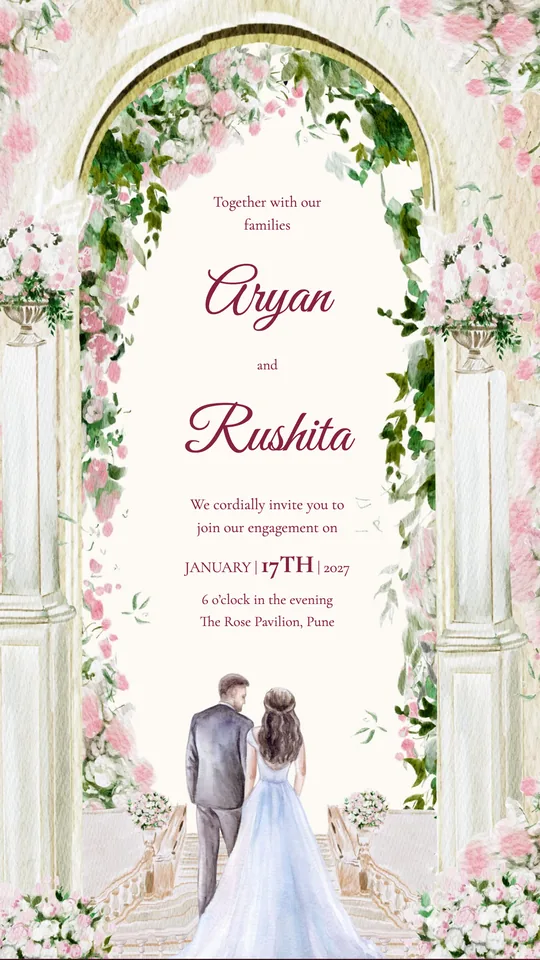
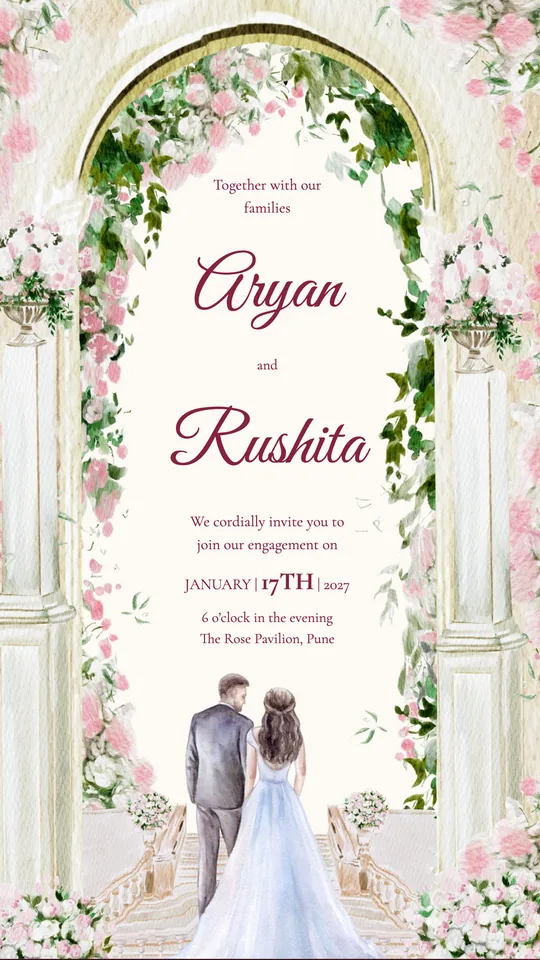
Apply second card review: clear the artwork, bigger names, renderer fixes
- Lantern Canopy: text bands raised so the date and venue clear the arch twigs in both shapes.
- Sage Script: print RSVP line lifted off the bottom leaves, smaller shared title so Tamil keeps its size, leftover ink from the old lettering painted out.
- Eucalyptus Ring: print band starts higher and the names are a little smaller, so print text no longer sits at the shrink floor.
- Meadow Vows and Rose Arch: larger names, closer to the originals.
- Card renderer: print pages refit only when their content changes, photo crops use the page's own index in print, and a story lead box is not reused in print.

Changed region(s): [[0.2963, 0.4062, 0.6815, 0.6875], [0.3556, 0.1875, 0.6519, 0.3438]]

diff --git a/src/card/designs-l.tsx b/src/card/designs-l.tsx
@@ -52,16 +52,16 @@ export const designs: Design[] = [
   },
   {
     ...look('eucalyptus-ring', '#f7f7f6', '#5e5631', '#5e5631', { title: cormorant, heading: cinzel, body: cormorant, names: '"Pinyon Script", cursive' }),
-    pages: [{ ...page('eucalyptus-ring', 352, 245, [16, 16], [322, 231]), lead: { box: [174, 160, 212, 76] }, print: { src: `${BASE}templates/eucalyptus-ring/1-print.jpg`, top: 322, bottom: 231, lead: { box: [174, 149, 212, 76] } } }],
+    pages: [{ ...page('eucalyptus-ring', 352, 245, [16, 16], [300, 231]), lead: { box: [174, 160, 212, 76] }, print: { src: `${BASE}templates/eucalyptus-ring/1-print.jpg`, top: 300, bottom: 231, lead: { box: [174, 149, 212, 76] } } }],
   },
   {
     ...look('sage-script', '#fbfcf8', '#5f7258', '#5f7258', { title: '"Jost", sans-serif', heading: '"Jost", sans-serif', body: '"Jost", sans-serif', names: '"Great Vibes", cursive' }),
     ornaments: { heart: { src: `${BASE}templates/sage-script/heart.png`, w: 0.62 } },
-    pages: [page('sage-script', 200, 205, [10, 10], [192, 181])],
+    pages: [page('sage-script', 200, 205, [10, 10], [192, 200])],
   },
   {
     ...look('lantern-canopy', '#f1f3f1', '#3b3a18', '#3b3a18', { title: '"Marcellus", serif', heading: '"Marcellus", serif', body: cormorant, names: '"Marcellus", serif' }),
-    pages: [{ ...page('lantern-canopy', 108, 470, [14, 14], [104, 346]), print: { src: `${BASE}templates/lantern-canopy/1-print.jpg`, top: 104, bottom: 346, x: [21, 21] } }],
+    pages: [{ ...page('lantern-canopy', 108, 500, [14, 14], [100, 366]), print: { src: `${BASE}templates/lantern-canopy/1-print.jpg`, top: 100, bottom: 366, x: [21, 21] } }],
   },
 ]
 
@@ -82,7 +82,7 @@ export const templates: Template[] = [
         title: 'Engagement',
         sections: [
           b('***CELEBRATE WITH US AS***\n***WE EXCHANGE RINGS***', 0.68),
-          b('~Aryan &~\n~Rushita~', 2.8),
+          b('~Aryan &~\n~Rushita~', 3.4),
           b('***YOUR COMPANY IS REQUESTED***\n***AT OUR ENGAGEMENT***', 0.68),
           b('**20 | DECEMBER | 2026**', 1.05),
           b('At 4 o’clock in the afternoon\n***Sayaji Garden Lawns***\n14 Lake View Road, Vadodara', 0.85),
@@ -103,9 +103,9 @@ export const templates: Template[] = [
         title: 'Engagement',
         sections: [
           b('Together with our\nfamilies', 0.85),
-          b('~Aryan~', 3.4),
+          b('~Aryan~', 4),
           b('and', 0.8),
-          b('~Rushita~', 3.4),
+          b('~Rushita~', 4),
           b('We cordially invite you to\njoin our engagement on', 0.85),
           b('JANUARY | **17TH** | 2027', 0.85),
           b('6 o’clock in the evening\nThe Rose Pavilion, Pune', 0.8),
@@ -125,7 +125,7 @@ export const templates: Template[] = [
         title: 'Engagement',
         sections: [
           b('~Engagement Ceremony~', 1.6),
-          b('~Aryan~\n~& Rushita~', 3.6),
+          b('~Aryan~\n~& Rushita~', 3.2),
           b('**14 | FEBRUARY | 2027**', 1.3),
           b('At 11 o’clock in the morning\n***Shubh Banquets***\nMG Road, Ahmedabad', 1.15),
         ],
@@ -143,7 +143,7 @@ export const templates: Template[] = [
       {
         title: 'Engaged',
         sections: [
-          b('~Engaged~ [[heart]]', 6.4),
+          b('~Engaged~ [[heart]]', 5.2),
           b('JOIN US TO CELEBRATE THE\nENGAGEMENT OF', 0.95),
           b('~Aryan + Rushita~', 3.1),
           b('SATURDAY, MARCH 13, 2027 | 7 - 11 PM\nTHE GREEN HOUSE, 21 PARK STREET,\nKOLKATA 700016', 0.85),

diff --git a/src/card/Card.tsx b/src/card/Card.tsx
@@ -339,7 +339,7 @@ export function CardPage({ invite, page }: { invite: Invite; page: Page }) {
   const crop = art?.print && invite.format === 'print' ? 0 : (960 * k - h) / 2
   const safe = art ? { top: art.top * k - crop, bottom: art.bottom * k - crop, x: d.safe.story.x * k } : d.safe[invite.format]
   const side = art?.x ? { left: (art.x[0] * w) / 100, right: (art.x[1] * w) / 100 } : { left: safe.x, right: safe.x }
-  const fit = art?.photo && { ...PHOTO_FIT, ...invite.photos?.[base0.pages!.indexOf(art)] }
+  const fit = art?.photo && { ...PHOTO_FIT, ...invite.photos?.[base0.pages!.indexOf(own!)] }
   const photo = art?.photo && { src: fit!.src ?? art.photo.src, b: art.photo.box.map((v) => v * k), fade: art.photo.fade }
   const x = look(d, invite.lang)
   const base = w / 30
@@ -348,7 +348,9 @@ export function CardPage({ invite, page }: { invite: Invite; page: Page }) {
   // lead: the first section gets its own band (a title typed into a painted frame), fitted on its own.
   const leadBox = useRef<HTMLDivElement>(null)
   const leadInner = useRef<HTMLDivElement>(null)
-  const lead = art?.lead && page.kind !== 'cover' && page.sections.length > 1 ? art.lead : undefined
+  // In print, only the print art's own lead box applies: the story box is placed for the cropped 9:16 page.
+  const leadDef = art !== lang ? lang?.print?.lead : art?.lead
+  const lead = leadDef && page.kind !== 'cover' && page.sections.length > 1 ? leadDef : undefined
   const body = lead && page.kind !== 'cover' ? { ...page, sections: page.sections.slice(1) } : page
 
   // Shrink text until it fits the safe area, so long family lists never spill onto the artwork.
@@ -379,7 +381,7 @@ export function CardPage({ invite, page }: { invite: Invite; page: Page }) {
       el?.removeEventListener('load', fit, true)
     }
     // Only pages whose content or look changed re-fit; untouched pages keep their object identity.
-  }, [page, base, invite.scale, invite.lang, invite.templateId, art])
+  }, [page, base, invite.scale, invite.lang, invite.templateId, invite.format, own])
 
   return (
     <div className="relative overflow-hidden" style={{ width: w, height: h, background: d.sky, color: d.colors.text, fontFamily: x.f.body, letterSpacing: d.tracking, textShadow: d.press, '--names': x.f.names } as CSSProperties}>
